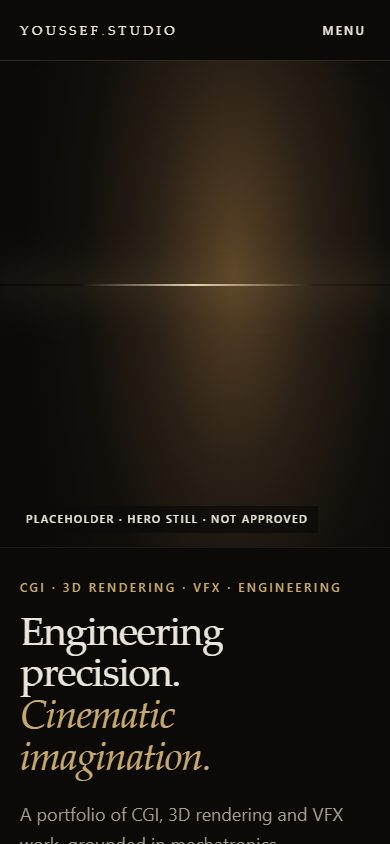
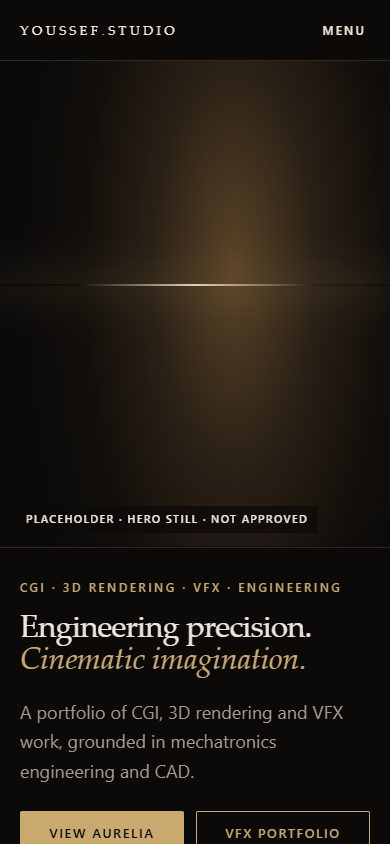
docs: record homepage refinements, font evaluation and animation study
Record the owner's approve-with-refinements verdict, before/after
screenshots, the OFL display-font evaluation (nothing added), hero
artwork contract, the 16-run clip-path versus transform comparison and
final controlled Lighthouse results, and update plan, design system,
content plan and handoff. No ADR status changed.

Agent: Claude Code

Changed region(s): [[0.0308, 0.7085, 0.8923, 0.9242], [0.0308, 0.955, 0.8923, 1.0]]

diff --git a/docs/reviews/M1B_HOME_DECISION.md b/docs/reviews/M1B_HOME_DECISION.md
@@ -42,3 +42,46 @@ Departures from the explored pages, with reasons:
 
 Approved: the left-aligned wordmark. Kept provisionally: system fonts and the current call-to-action copy. Authorized: pushing the homepage and exploration branches (done). **The homepage visual design is not yet approved**; the screenshot set for review is [HOME_REVIEW](../design/m1b/HOME_REVIEW.md). No redesign was made in response to these decisions.
 
+## Visual approval and refinements (2026-10-15)
+
+Owner verdict: **approve with refinements**. The overall Direction A-led hybrid identity is approved; the warm-black, bone and restrained brass palette and the left-aligned `YOUSSEF.STUDIO` wordmark are preserved unchanged. Work is on `feat/m1b-homepage-refine`. No external fonts or media were added.
+
+| Request | Change | Evidence |
+| --- | --- | --- |
+| Mobile headline | Each sentence now sits on one line from 320 px up (28 px at 320, 31 px at 390, 34 px at 430); fluid size `clamp(1.75rem, 8vw, 3.75rem)` below 860 px; tighter leading and tracking; stacked, equal-width buttons on phones | `npm run test:home`: lines per sentence 1+1 at 320, 360, 390, 430, 560, 768, 1024 and 1440 px, no overflow. Before: four lines at 390 px |
+| Typography | System stacks kept. Added kerning, optical sizing, common ligatures, `text-wrap: pretty` for body text and balanced headings; heading leading 1.06 | Visual review; no new files |
+| Display fonts | Two OFL candidates evaluated, not added: Instrument Serif and Newsreader | [M1B_FONT_EVALUATION](M1B_FONT_EVALUATION.md) |
+| Project sections | Featured Aurelia is now a full-width cinematic plate with a three-part caption row (title, summary and action, facts). Selected VFX work is an asymmetric 7/5 column composition with numbered captions; both slots remain labelled "Project slot, none verified yet" | Screenshots in `docs/design/m1b/`; before images in `docs/design/m1b/before/` |
+| Real-image readiness | See below | `npm run test:home` |
+| Animation variance | See below | A/B runs below |
+
+### Hero ready for a real Aurelia image
+
+- The hero box is sized by CSS only, never by the image: height `max(clamp(24rem, 56svh, 42rem), 100vw / 3.4)` on desktop, 3:2 on tablets, 4:5 on phones. The image is absolutely positioned with `object-fit: cover` and a configurable focal point, so loading it cannot shift layout.
+- `Plate` accepts `focal`, `srcset`, `sizes` and an optional art-directed `mobileSrc` (used at 560 px and below). Without `mobileSrc`, phones show a centred 3:2 crop of the desktop image. The artwork guide is in `src/data/home.ts`: master 2880 x 1206 (2.39:1), mobile crop 1200 x 1500 (4:5), subject inside the central 70% vertically, at most 250 KB per variant.
+- Measured with synthetic artwork and a 1.2 s delayed image load (test-only, never shipped): layout shift 0.0 px at eight viewports from 320 x 640 to 2560 x 1080; the central 70% vertical band stays visible everywhere (from 70% at 2560 x 1080 to 100%; 84% at 1440 x 900 and 80% for the 4:5 art at 560 x 900); desktop and mobile art are not cropped horizontally outside the 561-860 px band; and the correct source is chosen at each width. At 768 px the desktop image shows 63% of its width (centred), which is why a focal point exists.
+- A fix found by the new media test: the image-failure fallback targeted the image's parent, which became `<picture>`; it now targets the plate. `npm run test:media` passes again.
+
+### Opening animation: clip-path versus transform
+
+Earlier mobile Lighthouse runs on Chrome varied from 83 to 100 (total blocking time 0-697 ms) on a page with no JavaScript bundle. The hero opened with an animated `clip-path` on the whole plate, a main-thread paint animation. The alternative opens two letterbox bars with `transform` (compositor-only). The look is the same (frames compared at 250 ms); the bars stay hidden under reduced motion and whenever animations do not run.
+
+Chrome disappeared from the test machine during this work, so the comparison ran on Edge 155 (Chromium) with Lighthouse 13.5, mobile preset, alternating variants, sequential runs, no other load from this session:
+
+| Condition | Variant | Performance | Total blocking time | Longest long task before first paint |
+| --- | --- | --- | --- | --- |
+| 4x CPU (default), 5 runs each | clip-path | 100 in all 5 | 0 ms in all 5 | 138, 159, 260, 207, 224 ms (mean 198) |
+| 4x CPU (default), 5 runs each | transform bars | 100 in all 5 | 0 ms in all 5 | 188, 208, 226, 183, 193 ms (mean 200) |
+| 8x CPU (stress), 3 runs each | clip-path | 100 in all 3 | 0 ms in all 3 | 464, 386, 371 ms (mean 407) |
+| 8x CPU (stress), 3 runs each | transform bars | 100 in all 3 | 0, 16, 0 ms | 392, 345 (plus 81), 418 ms (mean 385) |
+
+Result: no measurable difference, and the earlier variance did **not** reproduce on a quiet machine with either variant. The cause of the Chrome-era variance is therefore unproven. Contention on the test host is the most likely explanation (host benchmark index 1,444 in the worst run versus about 3,000-3,600 now), and the earlier reduced-motion diagnostic is consistent with, but does not prove, an animation cost. **Decision:** keep the transform version. It was never slower in these 16 runs, avoids a main-thread paint animation by construction, and looks the same. The browser changed from Chrome to Edge, so the two sets of numbers are not directly comparable.
+
+### Final controlled mobile Lighthouse (refined build)
+
+Edge 155, Lighthouse 13.5, mobile preset, three sequential runs: performance 100, 100, 100; accessibility, best-practices and SEO 100 each time; FCP and LCP 0.90 s; total blocking time 0 ms; layout shift 0; host benchmark index 2,920-3,461; 26.8 KB transferred uncompressed. This is placeholder content only, so it does not predict performance with a real hero image.
+
+### Still open
+
+Font decision (Q06); real hero and Aurelia imagery (manifest M-01, M-02); owner confirmation of the supporting copy. The VFX portfolio and Aurelia pages remain unstarted.
+

diff --git a/docs/HANDOFF.md b/docs/HANDOFF.md
@@ -6,7 +6,8 @@ Updated 2026-10-15 by Claude Code (acting lead engineer while Codex is unavailab
 
 | Item | Value |
 | --- | --- |
-| Current branch / worktree | `feat/m1b-homepage`, worktree `../website-portfolio-m1b-home`; based on `685dd41`; pushed to origin at `354cead` (owner-authorized, no force); later commits are docs-only, see `git log` |
+| Current branch / worktree | `feat/m1b-homepage-refine`, worktree `../website-portfolio-m1b-refine`; based on `40939c6` (the pushed homepage head); local only until the owner asks for a push |
+| Homepage branch | `feat/m1b-homepage`, worktree `../website-portfolio-m1b-home`; pushed to origin at `40939c6` |
 | M1b exploration branch | `feat/m1b-design-exploration`, worktree `../website-portfolio-m1b`; pushed to origin at `685dd41` (owner-authorized 2026-10-15, no force) |
 | M1a branch | `feat/m1a-site-foundation`, worktree `../website-portfolio-m1a`, pushed; unchanged by M1b |
 | Base | M0 commit `80af31cd00c73e1f7bf737e15cae6bd731bcfde9` (`docs/m0-foundation`) |
@@ -16,6 +17,27 @@ Updated 2026-10-15 by Claude Code (acting lead engineer while Codex is unavailab
 | Production | `main` still `c882895`; root `index.html` and `CNAME` unchanged; no workflow, Pages or DNS change |
 | ADR statuses | 0001 Accepted; 0002-0006 Proposed (unchanged) |
 | Stack | Astro 7.3.8 static output, TypeScript strict, plain CSS; Node >= 22.12 |
+
+## Homepage refinement round (2026-10-15), stopped for owner review
+
+- **Owner verdict:** homepage visual identity approved with refinements (Direction A-led hybrid; palette and left-aligned wordmark preserved). Record and evidence: [M1B_HOME_DECISION](reviews/M1B_HOME_DECISION.md#visual-approval-and-refinements-2026-10-15). The VFX portfolio and Aurelia pages were not started.
+- **Changes:** one-line-per-sentence mobile headline; refined system typography; new Featured Aurelia and Selected VFX layouts (slots still labelled); hero box sized by CSS with focal point, `srcset` and art-directed `mobileSrc`; transform-based hero opening (replaces `clip-path`); font evaluation without adding fonts ([M1B_FONT_EVALUATION](reviews/M1B_FONT_EVALUATION.md)); shared browser finder `scripts/lib/browser.mjs`; new `npm run test:home`; fix for the image-failure fallback (it must target the plate, not `<picture>`).
+- **Environment change:** Google Chrome was no longer installed on the machine part-way through this work. Scripts now fall back to Microsoft Edge (Chromium 155); Lighthouse needs `CHROME_PATH` set to the browser, as its `--chrome-path` flag is not honoured. Set `CHROME_PATH` for any other browser location.
+- **Image artwork guide:** desktop 2880 x 1206 (2.39:1) with the subject inside the central 70% of the height, optional 1200 x 1500 mobile crop, at most 250 KB per variant; set via `src/data/home.ts`.
+
+| Check | Result |
+| --- | --- |
+| `npm run verify` | Passed: docs check (26 files), type check 0 errors and 0 hints, build 8 pages, built-output check (home entry 7.6 KB gzip, 0 B external JavaScript), browser check on 7 routes (axe 0 violations at 390 and 1440 px, no overflow at 320, 390, 768, 1024 and 1440 px, reduced motion, JavaScript off, refresh, no console errors or external requests) |
+| `npm run test:home` | Passed. Headline is one line per sentence at 320, 360, 390, 430, 560, 768, 1024 and 1440 px (28 px at 320 up to 92 px at 1440), no overflow. Hero with synthetic art and a 1.2 s delayed image: 0.0 px layout shift at 320x640, 390x844, 560x900, 768x1024, 1024x768, 1440x900, 1920x1080 and 2560x1080; the central 70% band stays visible (70% to 100%); correct desktop or mobile source chosen |
+| `npm run test:media`, `npm run test:explore` | Passed |
+| Production build excludes exploration routes | Verified: no `dist/explore/`, no `explore` entry in the sitemap, no built HTML mentioning `explore` |
+| Controlled mobile Lighthouse, 3 runs (Edge 155, LH 13.5) | Performance 100, 100, 100; accessibility, best-practices, SEO 100; FCP and LCP 0.90 s; TBT 0 ms; CLS 0; host benchmark 2,920-3,461 |
+| Animation A/B (16 runs, clip-path versus transform) | No measurable difference; earlier 83-100 variance did not reproduce. Transform version kept. Details and caveats in the decision record |
+| Not done | Firefox, Safari, real phones, screen reader, YS Mobile v1 protocol, testing with real artwork or licensed fonts |
+
+Screenshots: `docs/design/m1b/home-*.jpg` (after) and `docs/design/m1b/before/` (previous round); font comparison: `docs/design/m1b/font-candidates.jpg`.
+
+**Open items for the owner:** display-font decision (Q06), real hero and Aurelia images (manifest M-01, M-02), approval of the supporting copy, whether to push `feat/m1b-homepage-refine`, and authorization before phases 4 and 5. ADR statuses are unchanged.
 
 ## M1b phase 3: homepage (2026-10-15), stopped for owner review
 

diff --git a/docs/reviews/M1B_FONT_EVALUATION.md b/docs/reviews/M1B_FONT_EVALUATION.md
@@ -1,0 +1,41 @@
+# M1b display-font evaluation
+
+Date: 2026-10-15. Status: **evaluation only; no font is added to the site.** The homepage still uses system font stacks. Adopting either candidate needs an explicit owner decision under Q06. Related: FR-06, QA-07, QA-11, QA-13, Q06.
+
+## What was evaluated
+
+Two display serifs, both distributed through Google Fonts under the SIL Open Font License 1.1 (OFL). Licence evidence was read from the Google Fonts repository (`ofl/<family>/OFL.txt` and `METADATA.pb`) on 2026-10-15; confirm again from the font's own repository before shipping.
+
+| | Instrument Serif | Newsreader |
+| --- | --- | --- |
+| Copyright line | The Instrument Serif Project Authors | The Newsreader Project Authors (Production Type) |
+| Licence | OFL 1.1 | OFL 1.1 |
+| Designers (metadata) | Rodrigo Fuenzalida, Jordan Egstad | Production Type |
+| Added to Google Fonts | 2023-03-22 | 2020-07-01 |
+| Styles tested | Regular and italic (a single weight) | Regular and italic at optical size 72, weight 400 |
+| Latin WOFF2 size | 21,032 B regular, 22,128 B italic (43.2 KB) | 21,752 B regular, 22,856 B italic (44.6 KB) |
+
+Files were downloaded to a scratch folder outside the repository only to render the comparison below. Nothing was bundled, committed or loaded from a third-party host by the site.
+
+## Comparison
+
+![Current system stack versus Instrument Serif and Newsreader](../design/m1b/font-candidates.jpg)
+
+| Aspect | System stack (current) | Instrument Serif | Newsreader |
+| --- | --- | --- | --- |
+| Character | Humanist, dependable; resolves to Palatino Linotype on this Windows host, other faces elsewhere | Condensed, high contrast, very editorial and cinematic; the most distinctive | Warm, refined, close in feel to the current look; more conventional |
+| Cross-device consistency | Varies by operating system (not tested off Windows) | Identical everywhere | Identical everywhere |
+| Mobile headline | Fits each sentence on one line from 28 px at 320 px wide (measured by `check-home`) | Narrower, so the headline can be set larger on phones | Similar width to the system stack |
+| Italic accent | Good | Expressive, strong | Good, calmer |
+| Limits | None | One weight; poor below about 28 px, so display only, never body | Optical-size axis fixed at 72 in this test; the full variable file is larger |
+| Added cost | None | 2 requests, about 43 KB | 2 requests, about 45 KB |
+
+## Cost and risk if adopted
+
+- **Budget:** about 45 KB of font data on top of the current 7 KB entry transfer is far inside the proposed 1 MB limit (QA-07). The headline is the largest contentful element until a hero image exists, so the font load would sit on the LCP path: preload only the regular face, use `font-display: swap`, and set `size-adjust`, `ascent-override` and `descent-override` on a local fallback so the swap does not shift layout.
+- **Hosting:** self-host the WOFF2 files from the site with the OFL text alongside. Do not link to Google Fonts at runtime (third-party request, privacy and QA-11).
+- **Not verified here:** rendering on macOS, iOS and Android; the effect on the Lighthouse variance study; the headline measurements in `check-home` would need re-baselining because widths change.
+
+## Recommendation (for the owner to accept or reject)
+
+Keep the system stacks for now, as decided. If the owner wants a more distinctive identity, adopt **Instrument Serif for headings only** (h1 and h2) and keep the system sans for body text. Newsreader is the safer choice if consistent rendering matters more than distinctiveness. To proceed the owner records: the chosen family (or none), then a follow-up change adds the self-hosted files, `@font-face` with fallback metrics, a preload, and a re-run of `npm run verify`, `npm run test:home` and the Lighthouse protocol.

diff --git a/docs/DEVELOPMENT_PLAN.md b/docs/DEVELOPMENT_PLAN.md
@@ -2,7 +2,7 @@
 
 ## Active milestone
 
-**M1b phase 3 (homepage only)**, on `feat/m1b-homepage` (worktree from `685dd41`, the M1b exploration head). Owner authorization recorded 2026-10-15: implement the homepage in the hybrid identity (Direction A primary, Direction B technical accents for Engineering/IBM AI Racing) with the headline "Engineering precision. Cinematic imagination.", system fonts, and no new external fonts. Phases 1-2 are complete ([CONTENT_MANIFEST](CONTENT_MANIFEST.md), [M1B_DESIGN_REVIEW](reviews/M1B_DESIGN_REVIEW.md)). Still prohibited without separate authorization: the VFX portfolio and Aurelia case-study implementation, merging to or changing `main`, deploying, DNS or Pages settings, `.nojekyll`, workflows, paid services, accepting any Proposed ADR, and removing the existing production page. Root `index.html` and `CNAME` are unchanged; owner-approved M0 documentation remains subject to Q13 before any merge. Status and resume steps: [HANDOFF](HANDOFF.md).
+**M1b homepage refinement**, on `feat/m1b-homepage-refine` (worktree from `40939c6`, the pushed homepage head). Owner verdict recorded 2026-10-15: homepage visual identity **approved with refinements** (Direction A-led hybrid; palette and left-aligned wordmark preserved). Allowed: refinements to the homepage only, font evaluation without adding fonts, animation investigation, verification and documentation. Still prohibited without separate authorization: the VFX portfolio and Aurelia case-study implementation, merging to or changing `main`, deploying, DNS or Pages settings, `.nojekyll`, workflows, paid services, unapproved external fonts or media, accepting any Proposed ADR, and removing the existing production page. Root `index.html` and `CNAME` are unchanged; owner-approved M0 documentation remains subject to Q13 before any merge. Status and resume steps: [HANDOFF](HANDOFF.md).
 
 M0's initial scope was 15 new Markdown files plus root README (16 files). Remediation adds ADR 0006 and a compact [finding disposition record](reviews/M0_REMEDIATION.md). The [ADR register](adr/README.md) owns statuses; only hosting records an existing Accepted decision. All proposed future work below needs separate owner authorization.
 
@@ -61,4 +61,8 @@ Phase 1 done: [CONTENT_MANIFEST](CONTENT_MANIFEST.md) (6 owner decisions, 4 veri
 ## M1b phase 3 progress (updated 2026-10-15)
 
 Homepage implemented on `feat/m1b-homepage`: sitewide hybrid tokens, new header/footer, `Plate` media slot with placeholder and failure fallback, technical engineering teaser, and eight homepage sections. Decision record: [M1B_HOME_DECISION](reviews/M1B_HOME_DECISION.md). Verification results are in [HANDOFF](HANDOFF.md). **Stopped after the homepage**: the VFX portfolio (phase 4) and Aurelia case study (phase 5) wait for owner review of the homepage and the manifest assets M-01 to M-08.
+
+## M1b homepage refinement (updated 2026-10-15)
+
+Done: mobile headline typography and breaks; refined system typography; font candidates evaluated ([M1B_FONT_EVALUATION](reviews/M1B_FONT_EVALUATION.md), none added); new Featured and Selected VFX composition with placeholders still labelled; hero ready for real artwork (stable box, focal point, art-directed mobile crop); animation comparison, with the transform-based opening kept; verification extended (`test:home`, hero fixtures). Record: [M1B_HOME_DECISION](reviews/M1B_HOME_DECISION.md#visual-approval-and-refinements-2026-10-15). **Stopped for owner review.** Phases 4 (VFX portfolio) and 5 (Aurelia) still need explicit authorization and manifest items M-01 to M-08.
 

diff --git a/docs/DESIGN_SYSTEM.md b/docs/DESIGN_SYSTEM.md
@@ -57,3 +57,7 @@ The tokens above remain the provisional M1a set and are **not** replaced. Owner 
 
 The hybrid identity is applied as the global tokens above in `src/styles/global.css`, with shared components in `src/styles/editorial.css` and `src/components/` (`Header`, `Footer`, `Plate`, `TechPlate`). Direction A is primary; Direction B's monospace and signal colour appear only in the engineering/racing teaser. Rationale, departures from the explorations and open approvals: [M1B_HOME_DECISION](reviews/M1B_HOME_DECISION.md). Exploration pages remain available locally for reference. Not yet approved: fonts, final wordmark letterforms, real imagery.
 
+## Homepage refinements (2026-10-15)
+
+Palette, wordmark and tokens are unchanged. Typography keeps the system stacks, with `font-kerning`, `font-optical-sizing: auto`, `text-wrap: balance` for headings and `text-wrap: pretty` for body text. Display-font candidates (Instrument Serif, Newsreader; both OFL) are evaluated in [M1B_FONT_EVALUATION](reviews/M1B_FONT_EVALUATION.md) and not adopted. The hero opening animation now uses transform-only letterbox bars instead of an animated `clip-path`. The hero artwork contract (sizes, focal point, mobile crop, safe area) and the measurements behind it are in [M1B_HOME_DECISION](reviews/M1B_HOME_DECISION.md#visual-approval-and-refinements-2026-10-15).
+

diff --git a/docs/CONTENT_PLAN.md b/docs/CONTENT_PLAN.md
@@ -69,3 +69,7 @@ The first content manifest is [CONTENT_MANIFEST](CONTENT_MANIFEST.md): owner dec
 
 The homepage ([M1B_HOME_DECISION](reviews/M1B_HOME_DECISION.md)) contains: the owner's headline; a supporting sentence, discipline notes, and section and call-to-action copy that are proposed and unapproved; placeholder media for the hero and Aurelia (labelled "not approved"); two empty VFX slots; and engineering and IBM AI Racing links with no results. Role and credits show "Pending confirmation". No project, tool, metric, credit or contact detail was invented. Replacing placeholders needs [CONTENT_MANIFEST](CONTENT_MANIFEST.md) items M-01 and M-02 first, then M-03 to M-08 for the case study.
 
+## Hero artwork specification (2026-10-15)
+
+When items M-01 and M-02 in [CONTENT_MANIFEST](CONTENT_MANIFEST.md) are met, supply: a desktop master of 2880 x 1206 (2.39:1) with the subject inside the central 70% of the height; an optional 1200 x 1500 (4:5) phone crop; a focal point if the subject is off-centre; descriptive alt text; and AVIF or WebP plus a JPEG fallback, at most 250 KB per variant. They are placed through `src/data/home.ts`, and no layout work is then needed. Until then the slots stay labelled placeholders.
+

diff --git a/README.md b/README.md
@@ -22,6 +22,7 @@ Read [AGENTS.md](AGENTS.md) or the Claude [entry point](CLAUDE.md), then consult
 | [M1a evaluation](docs/reviews/M1A_EVALUATION.md) | Three-arm stack comparison and provisional recommendation |
 | [Content manifest](docs/CONTENT_MANIFEST.md) | Owner decisions, verified facts, local asset candidates, missing items |
 | [M1b design review](docs/reviews/M1B_DESIGN_REVIEW.md) | Two visual directions, comparison and selection gate |
+| [Font evaluation](docs/reviews/M1B_FONT_EVALUATION.md) | Two OFL display-font candidates compared with the system stack; none adopted |
 | [Homepage review set](docs/design/m1b/HOME_REVIEW.md) | Desktop, tablet and mobile screenshots for owner visual approval |
 | [M1b homepage decision](docs/reviews/M1B_HOME_DECISION.md) | Hybrid identity, homepage structure, media-slot contract and open approvals |
 | [M1b plan](docs/M1B_PLAN.md) | Proposed visual identity, homepage, VFX portfolio and Aurelia plan, inputs and preview workflow |
